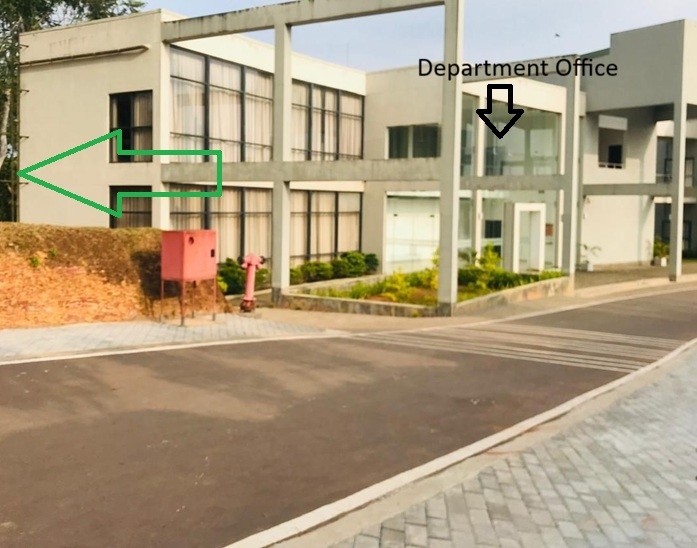
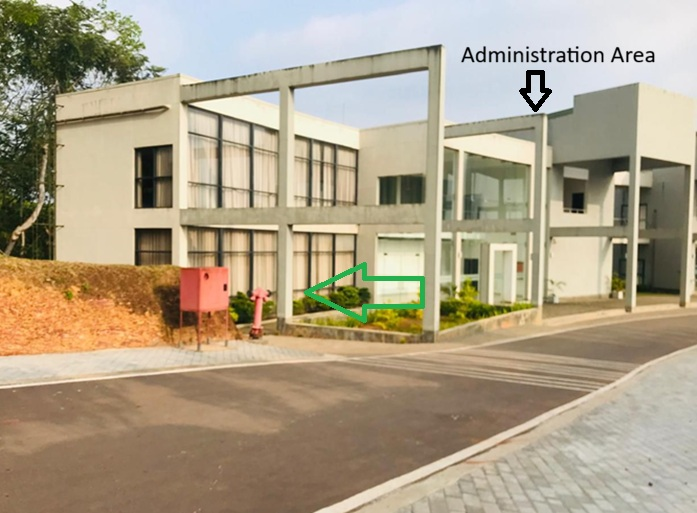
add facultyshortcut site

diff --git a/facultyshortcut.html b/facultyshortcut.html
@@ -4,19 +4,19 @@
     <meta charset="UTF-8">
     <meta name="viewport" content="width=device-width, initial-scale=1.0">
     <link rel="stylesheet" href="styles.css">
-    <title>Entrance</title>
+    <title>Faculty Shortcut</title>
 </head>
 <body>
     <section class="bottombox">
-        <h1>Entrance</h1>
-        <p>Go straight ahead to  Department Office.Turn left to Faculty Canteen </p>
+        <h1>Faculty Shortcut</h1>
+        <p>Go straight ahead to Faculty Canteen </p>
     </section>
 
     <section class="imagebox">
-        <img class="image" src="./images/lobbyright.jpeg"  usemap="#universitymap" alt="Lobby">
+        <img class="image" src="./images/facultyshortcut.jpeg"  usemap="#universitymap" alt="Lobby">
 
         <map name="universitymap">
-            <area shape="rect" coords="55,95,441,344" href="facultyshortcut.html" alt="Faculty Shortcut">
+            <area shape="rect" coords="0,0,693,519" href="main.html" alt="Main Entrance">
         </map>
     </section>
     
